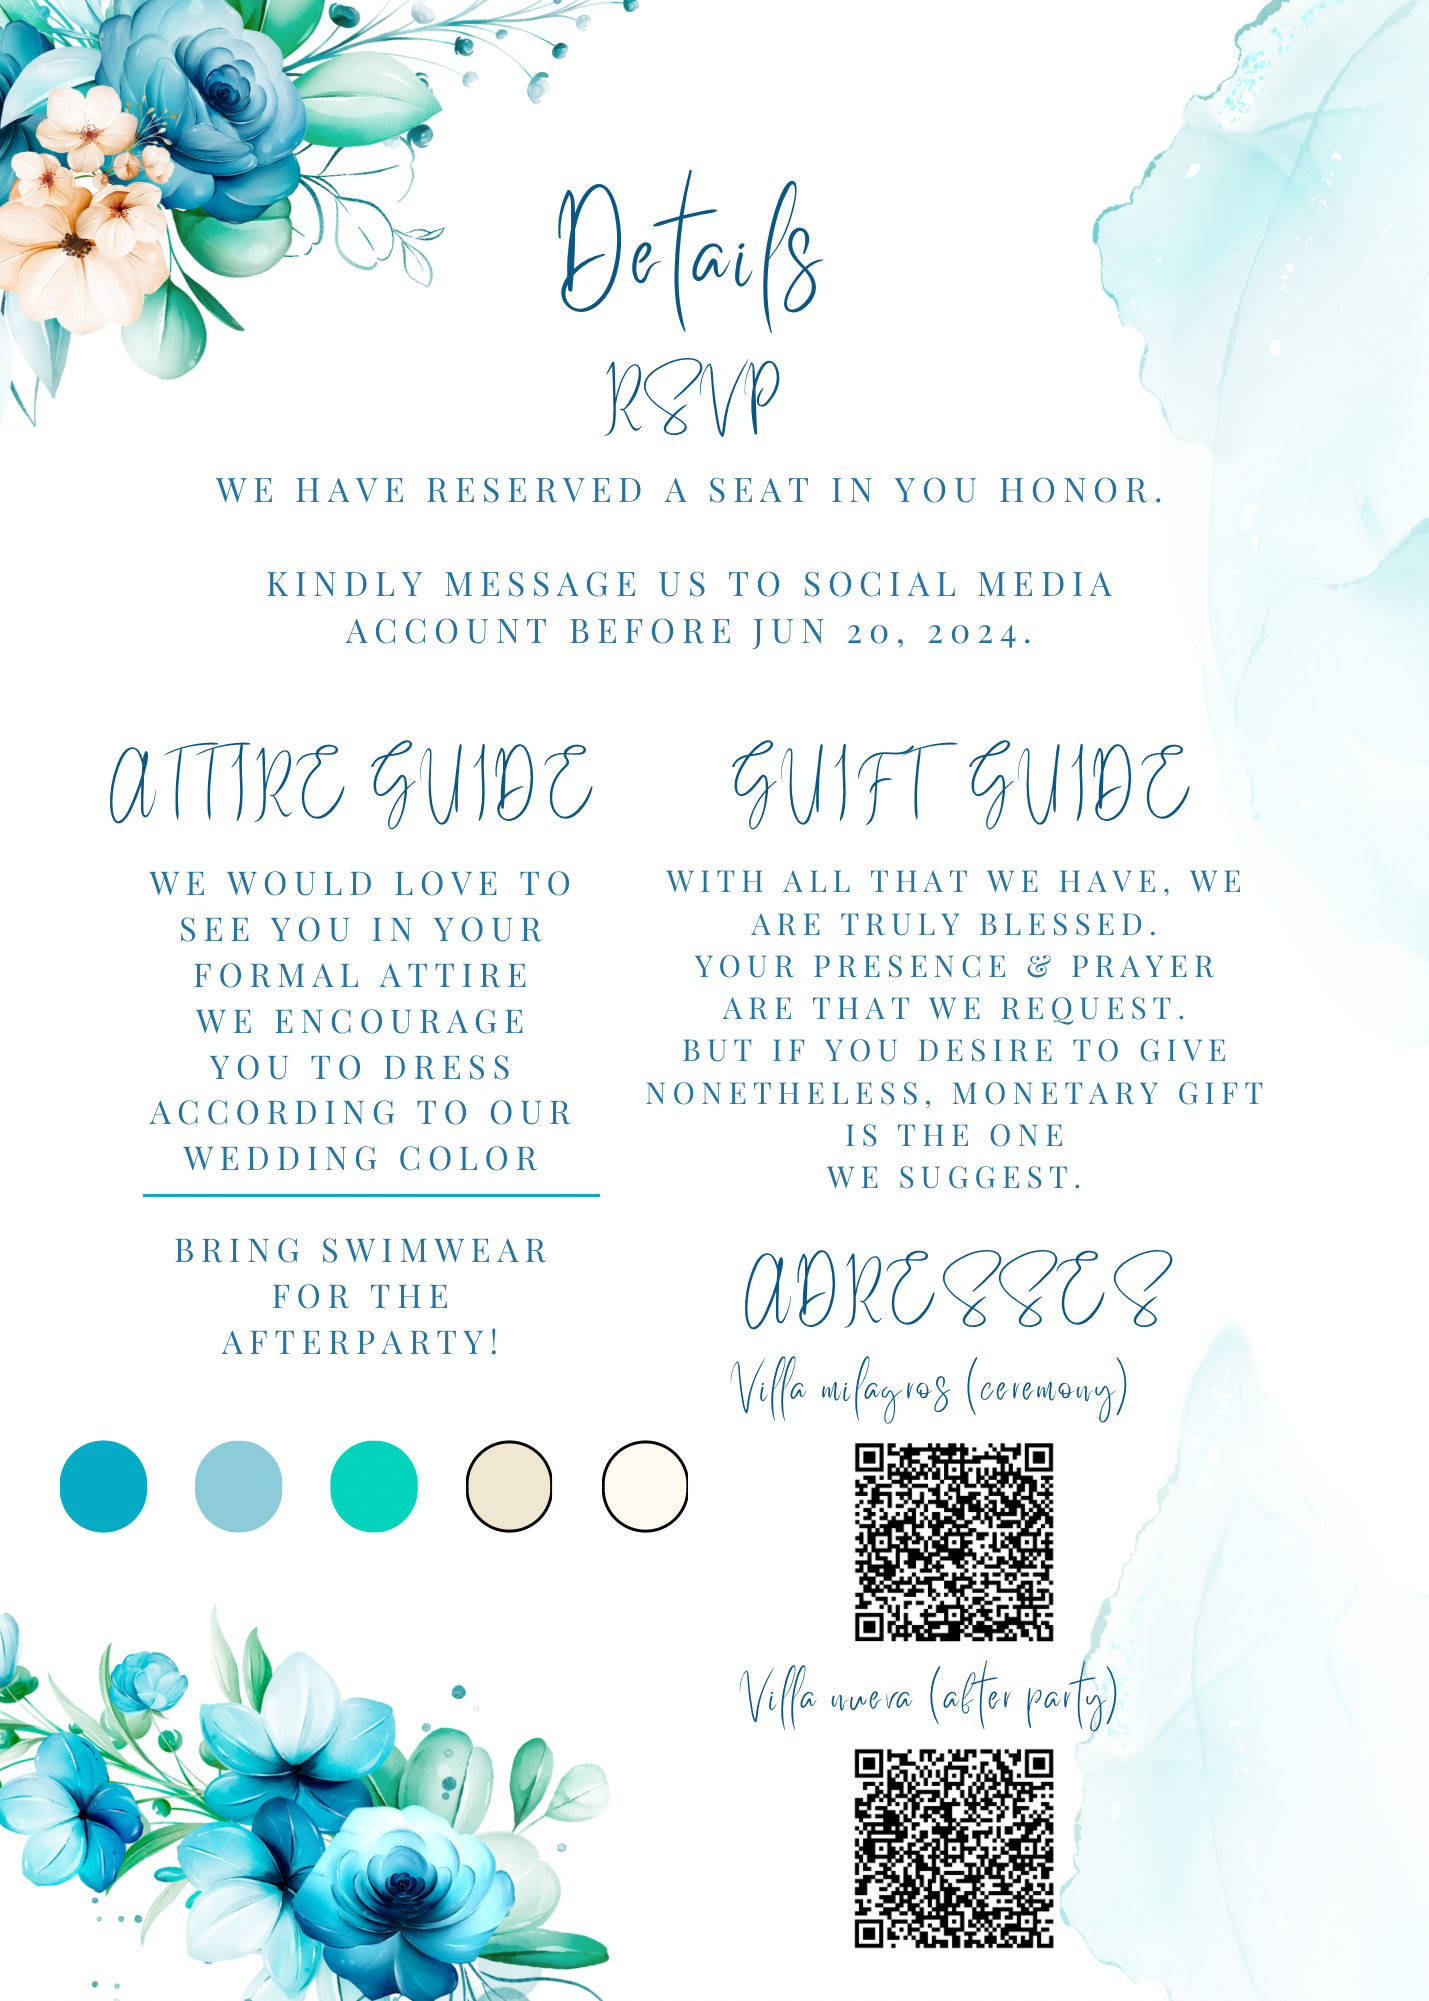
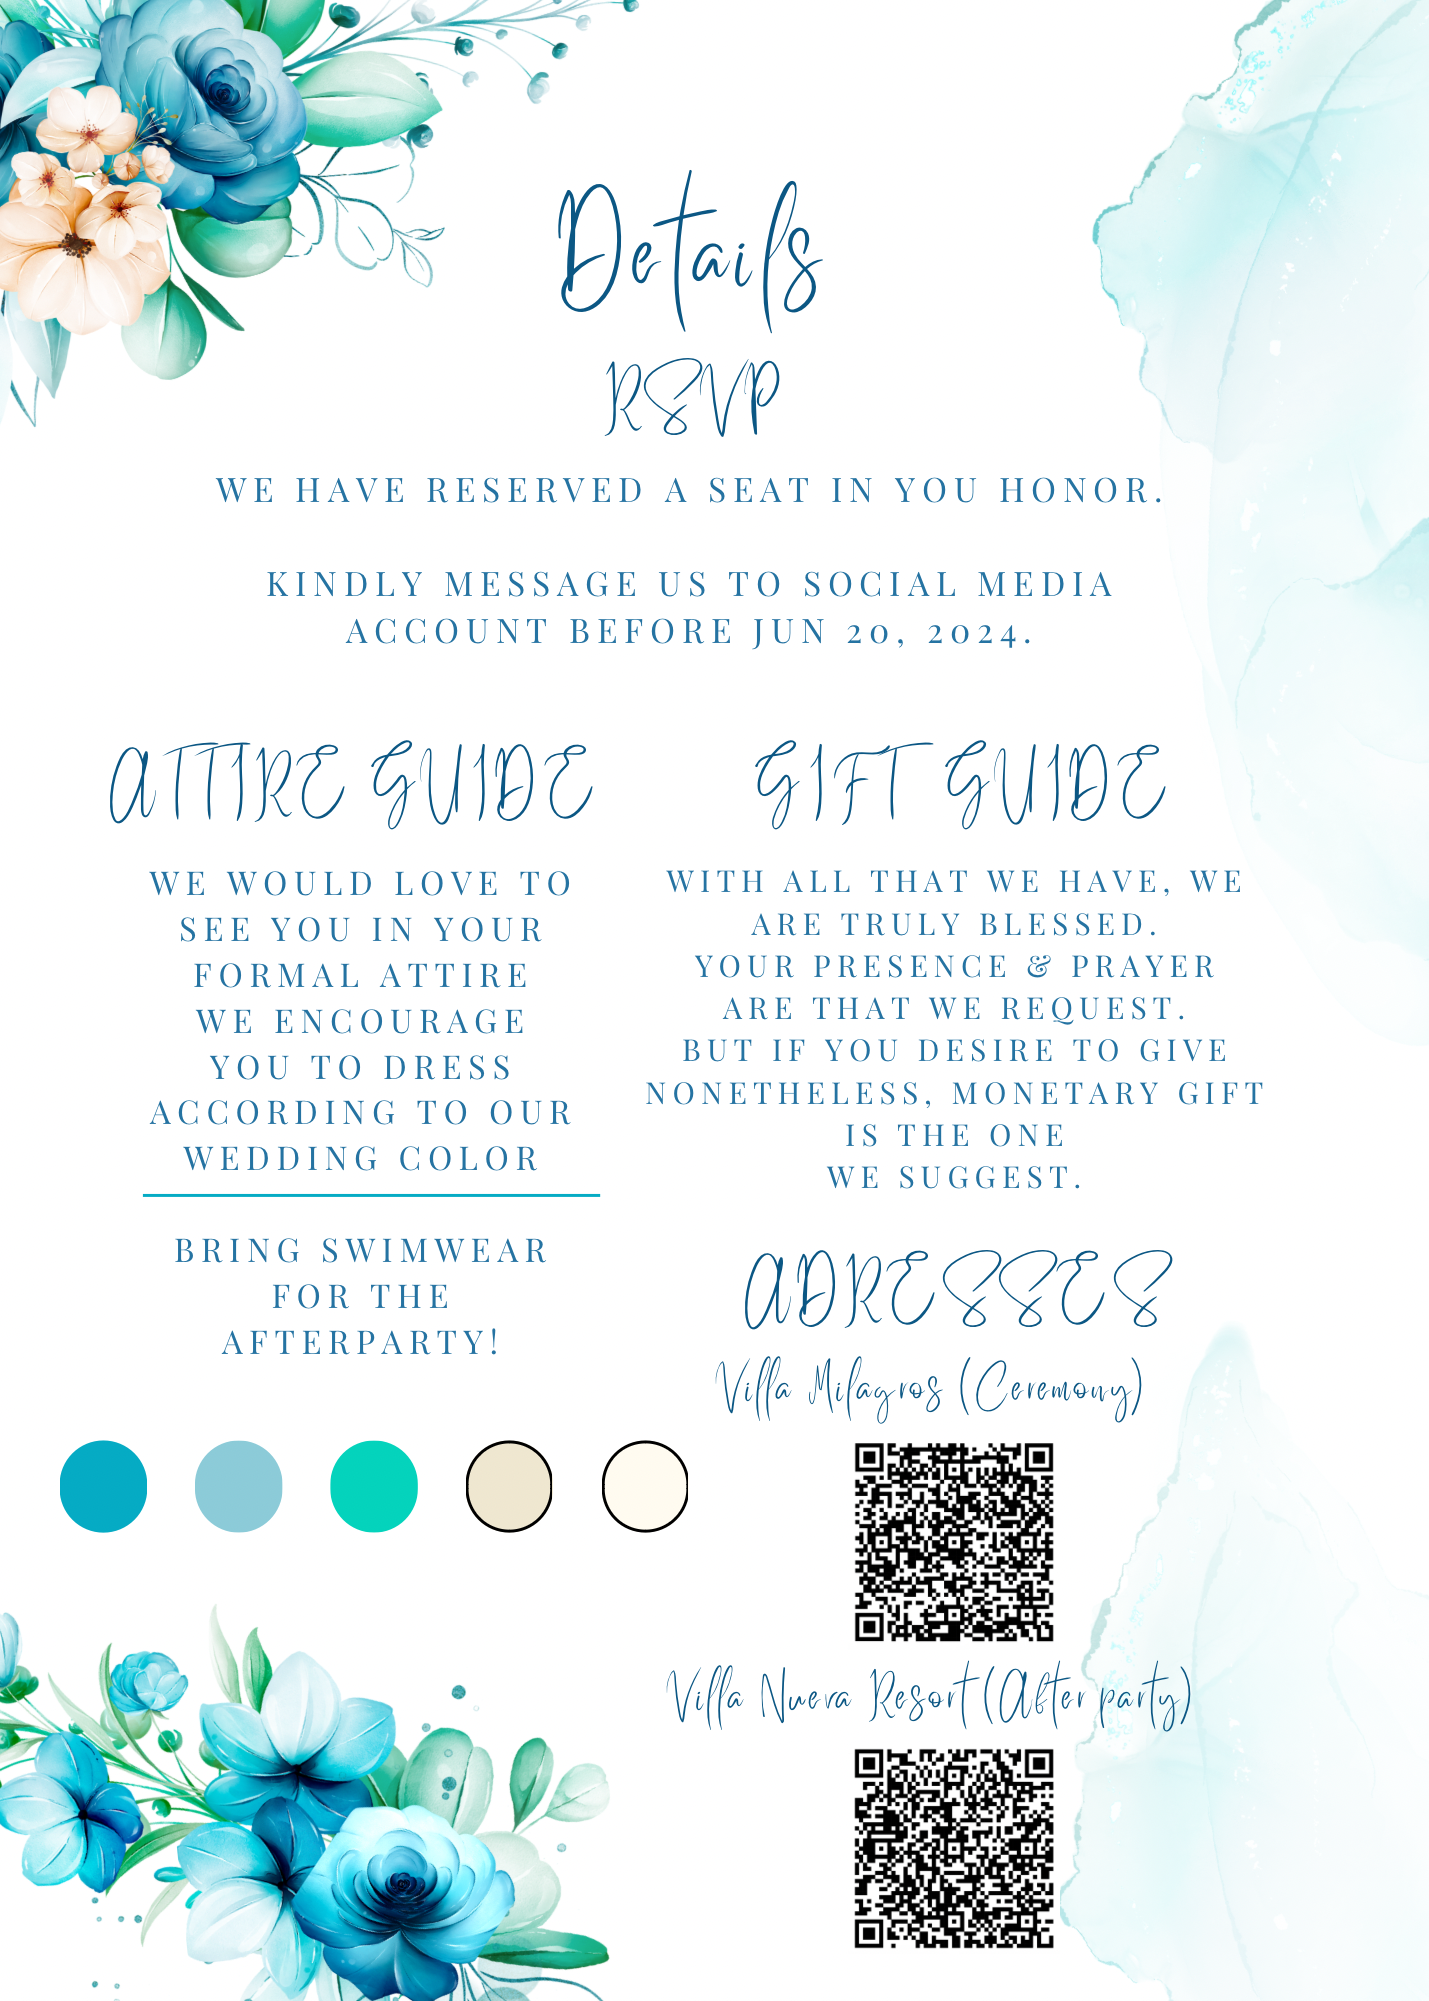
chore: grammar typo

Changed region(s): [[0.4619, 0.8366, 0.8314, 0.8676], [0.5234, 0.3718, 0.8314, 0.4028], [0.4927, 0.6817, 0.8006, 0.7126]]

diff --git a/index.html b/index.html
@@ -131,8 +131,8 @@
 			<div class="row">
 				<div class="col-md-8 col-md-offset-2 text-center fh5co-heading animate-box">
 					<h2>Hello!</h2>
-					<h3>July 6th, 2024 Montalbal, Rizal</h3>
-					<p>We invited you to celebrate our wedding</p>
+					<h3>July 6th, 2024 Montalban, Rizal</h3>
+					<p>We are tying the knot and you are invited!</p>
 				</div>
 			</div>
 			<div class="couple-wrap animate-box">
